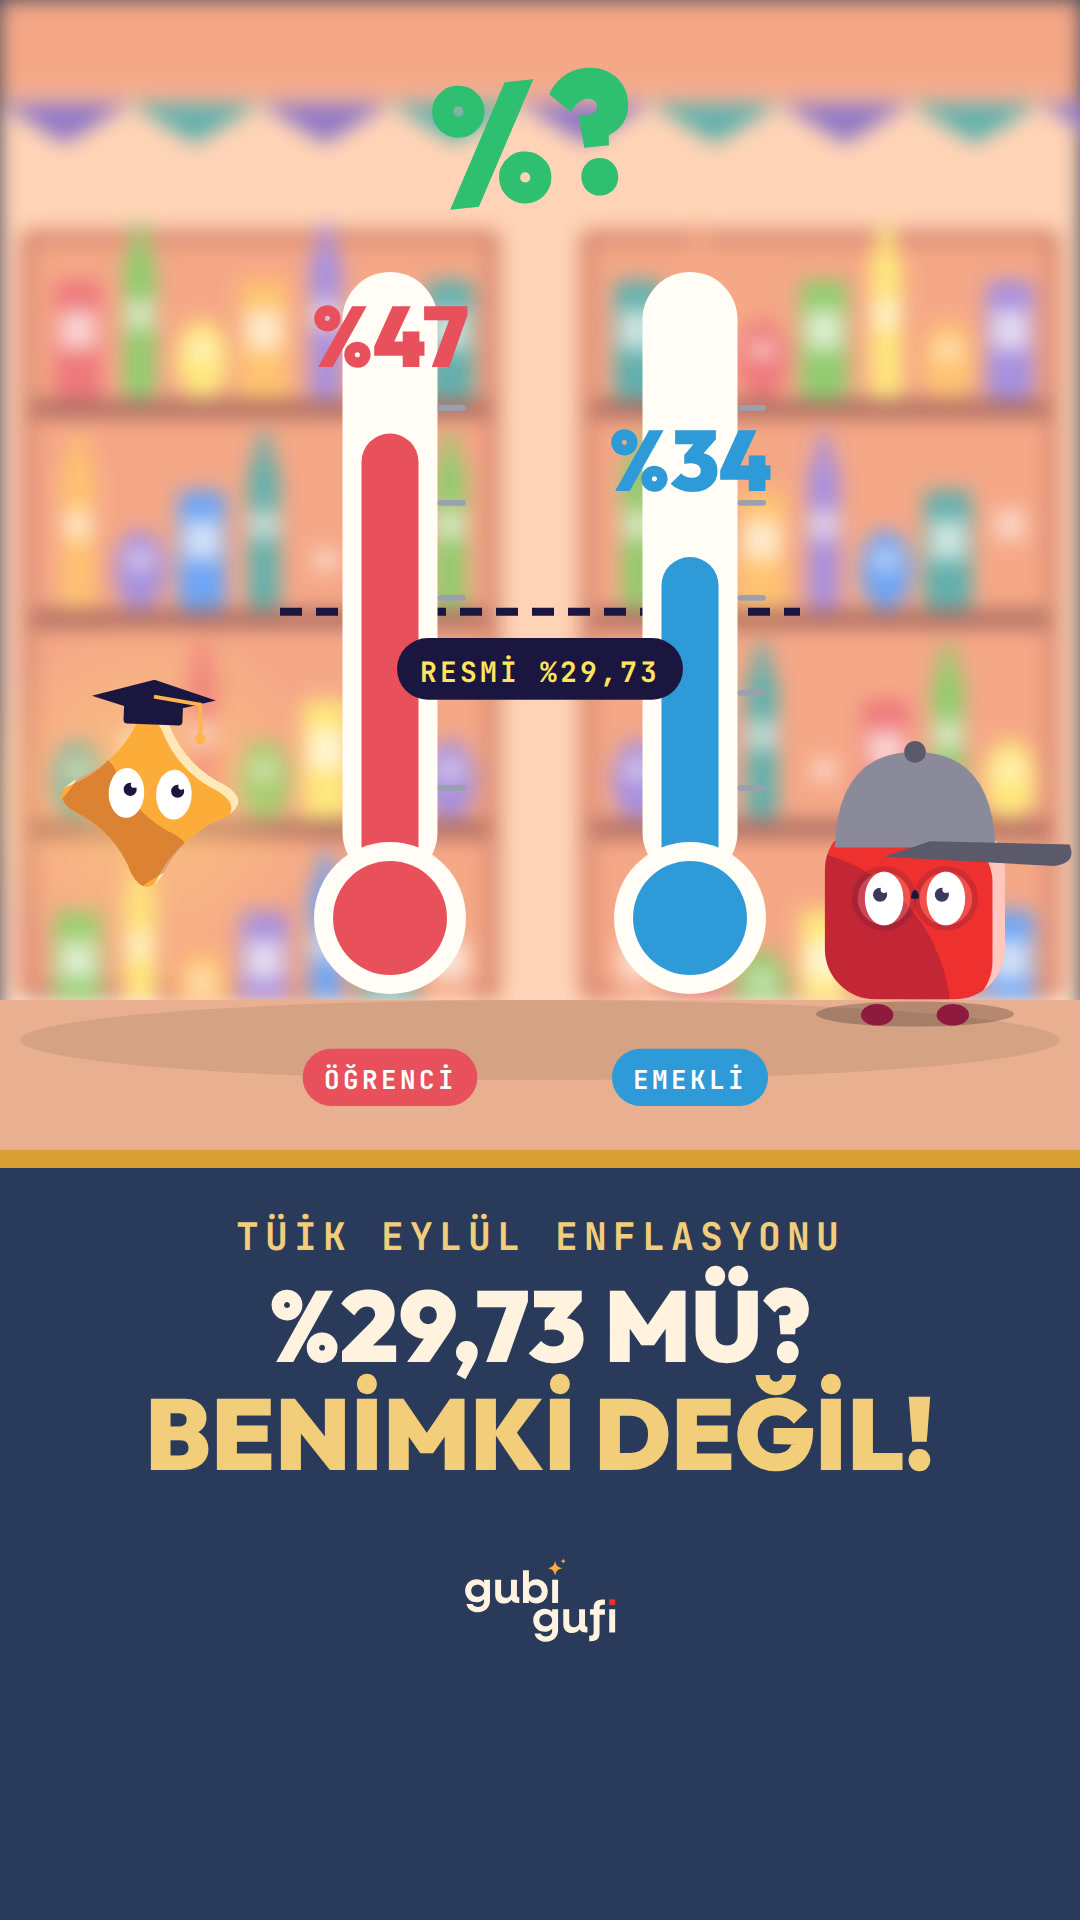
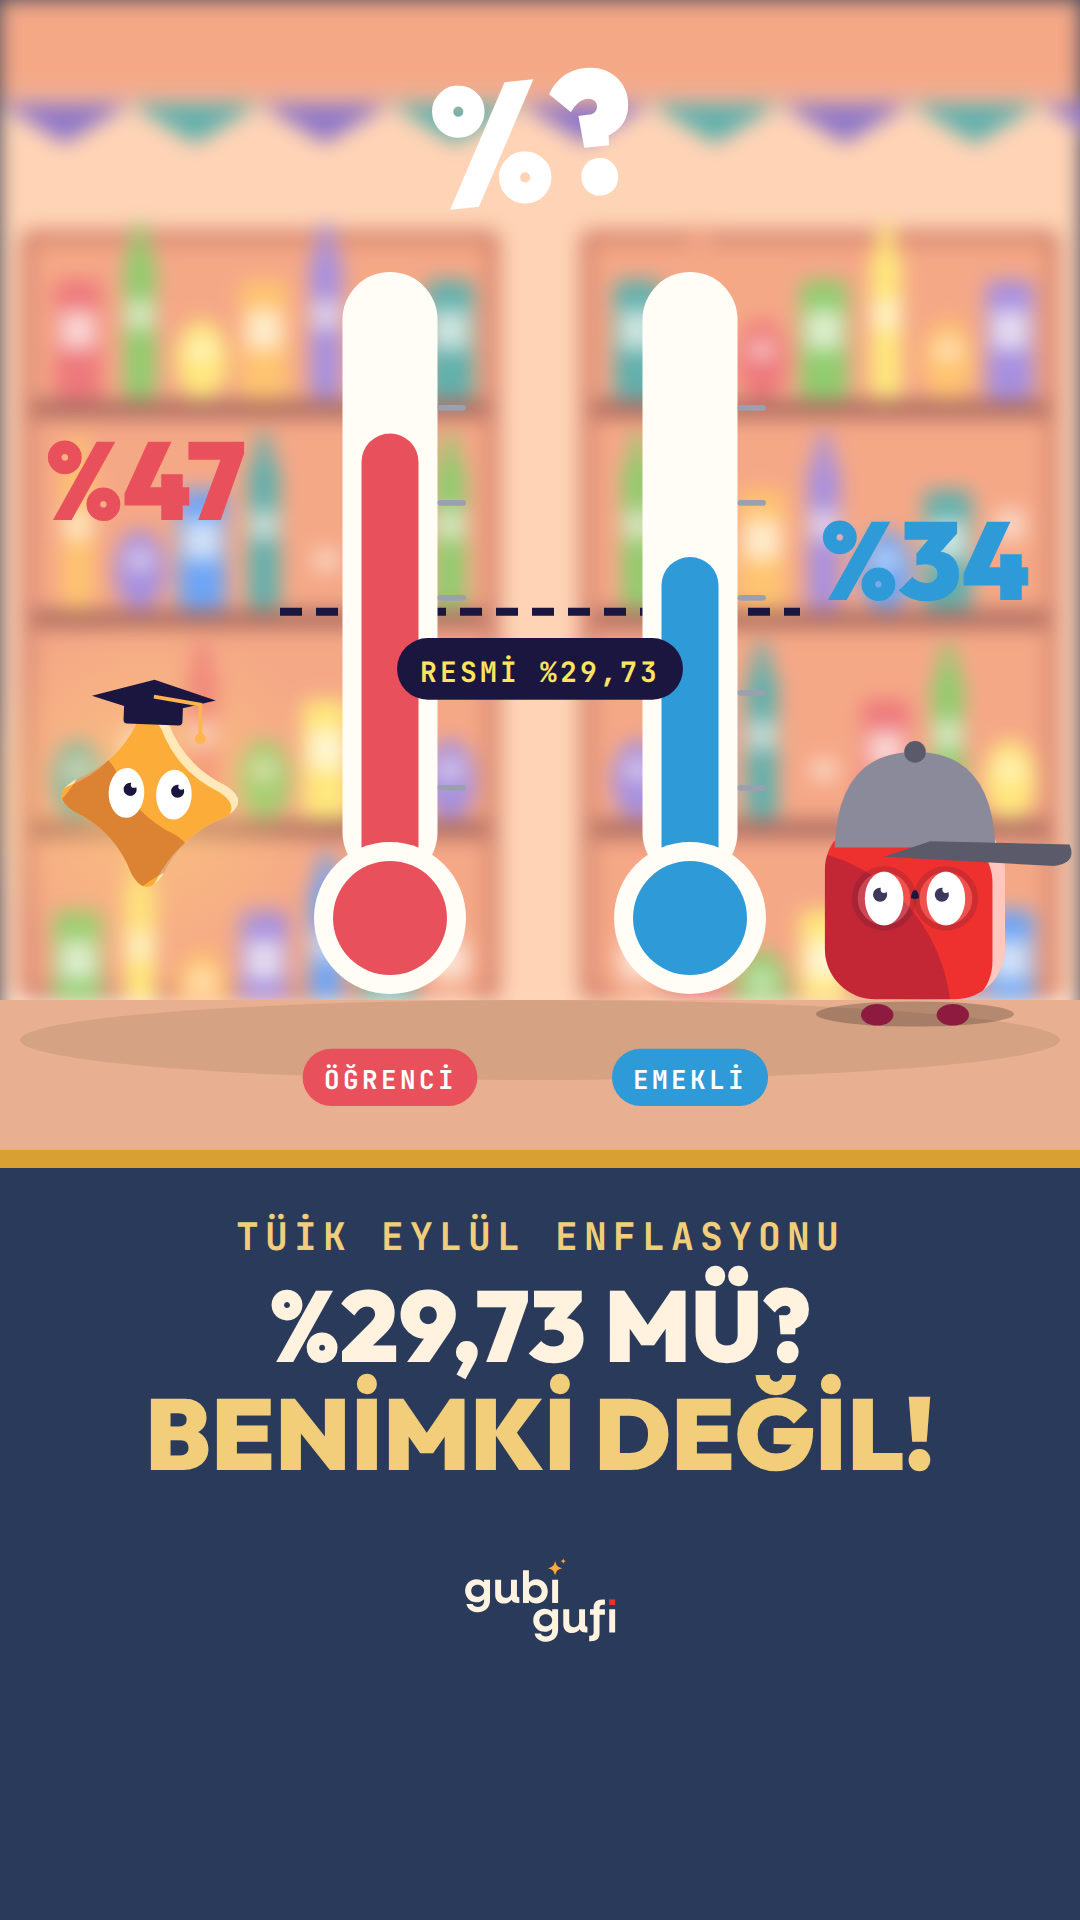
#19 kapak: %? beyaz, termometre değerleri kenarlarda
Claude-Session: https://claude.ai/code/session_01XpFWe2qV8RD24ed2Fkasje

diff --git a/gubigufi/2026-09-30/19-senin-enflasyonun/kaynak/sahneler/kapak.html b/gubigufi/2026-09-30/19-senin-enflasyonun/kaynak/sahneler/kapak.html
@@ -11,13 +11,14 @@ window.renderAt = t => {
   // iki termometre: ortada, karakterlerden bağımsız
   const ry = 880 - 570 * 29.73 / 60 * .95;
   o += `<path d="M280 ${ry} H800" stroke="#1B1640" stroke-width="8" stroke-dasharray="22 14"/>`;
-  o += EN.termometre(390, 880, .95, 47, 60, '#E8505B', '') + EN.termometre(690, 880, .95, 34, 60, '#2E9AD8', '');
+  o += EN.termometre(390, 880, .95, 47, 60, '#E8505B', '', false) + EN.termometre(690, 880, .95, 34, 60, '#2E9AD8', '', false);
+  o += txt('%47', 145, 520, 110, '#E8505B') + txt('%34', 925, 600, 110, '#2E9AD8');
   o += EN.cipO('RESMİ %29,73', 540, ry + 60, '#1B1640', '#FFE45C', 28);
   o += EN.cipO('ÖĞRENCİ', 390, 1080, '#E8505B', '#FFFFFF', 26) + EN.cipO('EMEKLİ', 690, 1080, '#2E9AD8', '#FFFFFF', 26);
   // karakterler dış kenarlarda, termometreye bakıyor
   o += M.canli('gubi', { t: 1.2, x: 150, y: 800, boy: 190, duygu: 'saskin', bakHedef: [390, 300], ust: KO.giy('gubi', [['kep', { renk: '#1B1640', puskul: '#FFB44C' }]]) });
   o += M.canli('gufi', { t: .5, x: 915, y: 1010, boy: 180, duygu: 'saskin', bakHedef: [690, 450], ust: KO.giy('gufi', ['gozluk', ['kasket', { renk: '#8A8A9A', siper: '#5A5A6A' }]]) });
-  o += `<text x="540" y="200" font-size="170" font-weight="900" text-anchor="middle" style="fill:#2FBF71" transform="rotate(-6 540 200)">%?</text>`;
+  o += `<text x="540" y="200" font-size="170" font-weight="900" text-anchor="middle" style="fill:#FFFFFF" transform="rotate(-6 540 200)">%?</text>`;
   o += `<rect x="0" y="1150" width="1080" height="770" fill="#2A3A5A"/><rect x="0" y="1150" width="1080" height="18" fill="#D8A032"/>`;
   o += `<text class="mono" x="540" y="1250" font-size="38" text-anchor="middle" letter-spacing="6" style="fill:#F2CE7A">TÜİK EYLÜL ENFLASYONU</text>`;
   o += txt('%29,73 MÜ?', 540, 1362, 100) + txt('BENİMKİ DEĞİL!', 540, 1470, 100, '#F2CE7A');

diff --git a/gubigufi/2026-09-30/19-senin-enflasyonun/kaynak/ortak/en.js b/gubigufi/2026-09-30/19-senin-enflasyonun/kaynak/ortak/en.js
@@ -36,10 +36,10 @@ const EN = (() => {
       if (etiket && p > .95) { const am = (a0 + a1) / 2, s = `${ad} %${Math.round(pay * 100)}`; o += `<g transform="translate(${x + Math.cos(am) * r * .62} ${y + Math.sin(am) * r * .62})">` + cipO(s, 0, 0, '#FFFDF6', '#1B1640', pay > .2 ? 24 : 20) + '</g>'; } }
       a0 = a1; });
     return o + `<circle cx="${x}" cy="${y}" r="${r}" fill="none" stroke="#FFFDF6" stroke-width="6"/>`; }
-  function termometre(x, y, s, deger, max, renk, etk) { const H = 600, dol = H * cl(deger / max);
+  function termometre(x, y, s, deger, max, renk, etk, yazi = true) { const H = 600, dol = H * cl(deger / max);
     let o = `<g transform="translate(${x} ${y}) scale(${s})">` + R(-50, -H - 40, 100, H + 40, 50, '#FFFDF6') + R(-30, -dol, 60, dol, 30, renk) + `<circle cx="0" cy="40" r="80" fill="#FFFDF6"/><circle cx="0" cy="40" r="60" fill="${renk}"/>`;
     for (let i = 1; i < 6; i++) o += R(50, -H * i / 6, 30, 6, 3, '#9AA0B0');
-    o += T_(`%${Math.round(deger)}`, 0, -dol - 70, 90, renk) + (etk ? cipO(etk, 0, 180, renk, '#FFFFFF', 26) : '');
+    o += (yazi ? T_(`%${Math.round(deger)}`, 0, -dol - 70, 90, renk) : '') + (etk ? cipO(etk, 0, 180, renk, '#FFFFFF', 26) : '');
     return o + '</g>'; }
   function ogrenciOda(T) { let o = CV.oda(T, { zeminY: 1250, dolap: false, pencere: [700, 280, 260, 320] }) + CV.raf(60, 360, 420, T, 5) + CV.poster(560, 360, 110, 150, T, 6);
     o += R(80, 1040, 520, 30, 10, '#8E5A30') + R(110, 1070, 24, 180, 8, '#6A4020') + R(550, 1070, 24, 180, 8, '#6A4020') + CV.lamba(160, 1040, .5, T) + CV.yerdeKitap(420, 1040, .6, T) + CV.kupa(520, 1040, .9, T.vurgu);
